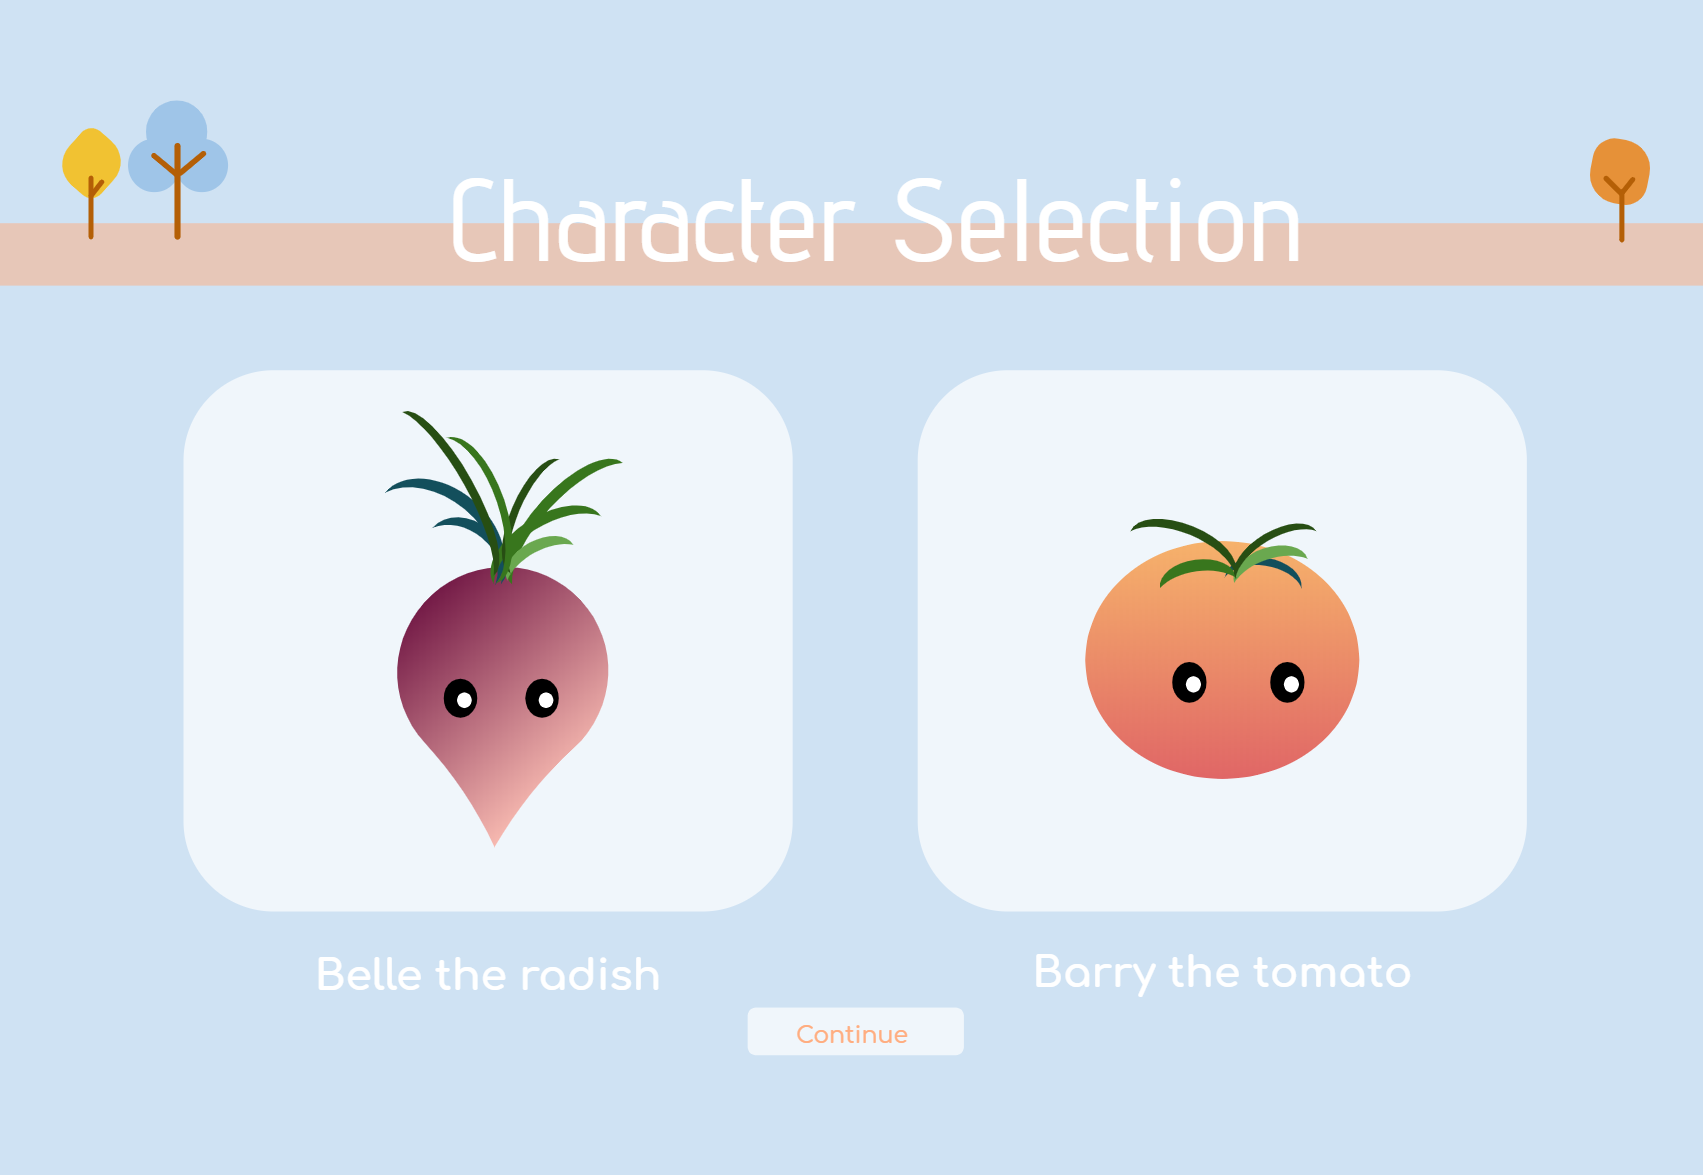
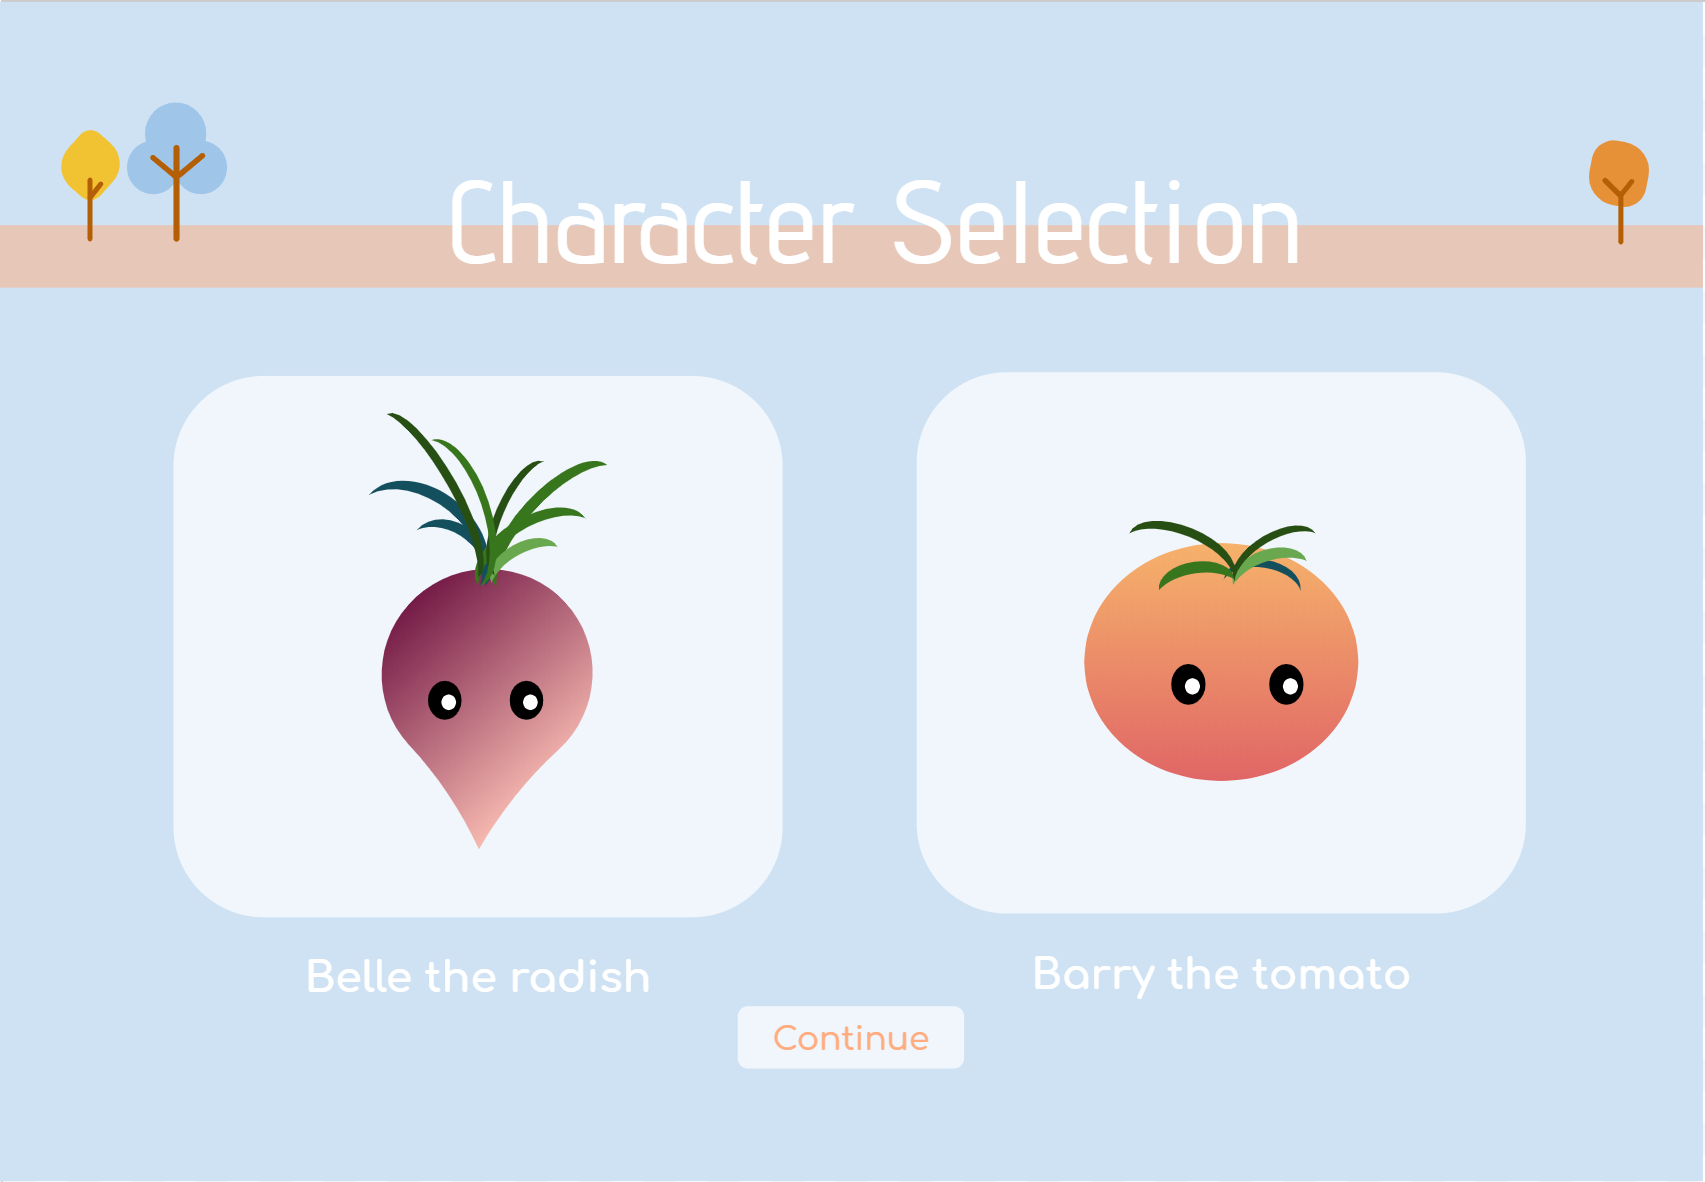
LEVEL 1 CHANGES + NEW GRAPHICS

diff --git a/src/UserInput.java b/src/UserInput.java
@@ -281,9 +281,9 @@ public class UserInput {
                     screen.setScreen(25);
                 }
             } else if (screen.getScreen() == 25) { // passed screen
-                if (x >= 120 && y >= 325 && x <= 250 && y <= 355) { // go to main menu
+                if (x >= 120 && y >= 345 && x <= 250 && y <= 370) { // go to main menu
                     screen.setScreen(2);
-                } else if (x >= 475 && y >= 330 && x <= 605 && y <= 355) {// go to next level
+                } else if (x >= 475 && y >= 345 && x <= 605 && y <= 370) {// go to next level
                     screen.setScreen(28);
                 }
             } else if (screen.getScreen() == 26) {// incorrect page
@@ -315,7 +315,7 @@ public class UserInput {
                 nameCounter++;
                 counter++;
                 if (counter % 2 == 0)
-                    if (x >= 100 && y >= 200 && x <= 340 && y <= 430) {
+                    if (x >= 90 && y >= 190 && x <= 335 && y <= 420) {
                         p.setCharacter("belle");
                         game.getContentPane().add(new JLabel() {
                             protected void paintComponent(Graphics g) {
@@ -325,12 +325,12 @@ public class UserInput {
                         });
                         game.setVisible(true);
                         proceed = true;
-                    } else if (x >= 380 && y >= 200 && x <= 630 && y <= 430) {
+                    } else if (x >= 390 && y >= 190 && x <= 640 && y <= 420) {
                         p.setCharacter("barry");
                         proceed = true;
                     }
 
-                if (x >= 320 && y >= 485 && x <= 415 && y <= 508 && proceed == true) {
+                if (x >= 320 && y >= 455 && x <= 410 && y <= 480 && proceed == true) {
                     screen.setScreen(30);
                     game.addKeyListener(keyInput);
                     counter = 0;
@@ -339,14 +339,13 @@ public class UserInput {
 
             } else if (screen.getScreen() == 30) { // PPE Selection
                 counter++;
-
-                if (x >= 125 && y >= 185 && x <= 370 && y <= 300 && p.ppeI("gloves") == false) {
+                if (x >= 105 && y >= 185 && x <= 355 && y <= 305 && p.ppeI("gloves") == false) {
                     p.ppeSet("gloves", true);
                     extraLife++;
                 } else if (x >= 395 && y >= 185 && x <= 635 && y <= 305 && p.ppeI("mask") == false) {
                     p.ppeSet("mask", true);
                     extraLife++;
-                } else if (x >= 125 && y >= 325 && x <= 370 && y <= 445 && p.ppeI("goggles") == false) {
+                } else if (x >= 105 && y >= 325 && x <= 355 && y <= 445 && p.ppeI("goggles") == false) {
                     p.ppeSet("goggles", true);
                     extraLife++;
                 } else if (x >= 395 && y >= 325 && x <= 635 && y <= 445 && p.ppeI("hand-sanitizer") == false) {
@@ -354,9 +353,9 @@ public class UserInput {
                     extraLife++;
                 }
                 if (counter % 2 == 0)
-                    if (x >= 300 && y >= 475 && x <= 430 && y <= 500) {
+                    if (x >= 315 && y >= 470 && x <= 430 && y <= 495) {
                         screen.setScreen(31);
-                    }
+                    }            
             } else if (screen.getScreen() == 31) { // Game Screen
                 if (runCounter == 0) {
                     g = new Board();// Make new instance of Board
@@ -371,11 +370,11 @@ public class UserInput {
                 game.getContentPane().remove(g);
                 runCounter = 0;
                 play.failed();
-                if (x >= 120 && y >= 315 && x <= 255 && y <= 340) {
+                if (x >= 120 && y >= 330 && x <= 260 && y <= 360) {
+                    screen.setScreen(2);
+                } else if (x >= 470 && y >= 330 && x <= 605 && y <= 360) {
                     screen.setScreen(28);// set back to play screen
                     charSelect = false;
-                } else if (x >= 480 && y >= 315 && x <= 610 && y <= 340) {
-                    screen.setScreen(2);
                 }
                 charSelect = false;
                 nameCounter = 0;

diff --git a/src/Main.java b/src/Main.java
@@ -27,7 +27,7 @@ public class Main {
         mainScreen.setSize(730, 540);
         mainScreen.setVisible(true);
         mainScreen.setLocationRelativeTo(null);
-        screen = new Vars(1); // set up starting screen
+        screen = new Vars(27); // set up starting screen
         learn = new Level1(mainScreen);
         play = new Level2(mainScreen);
         input = new UserInput(mainScreen, screen, play, p);
